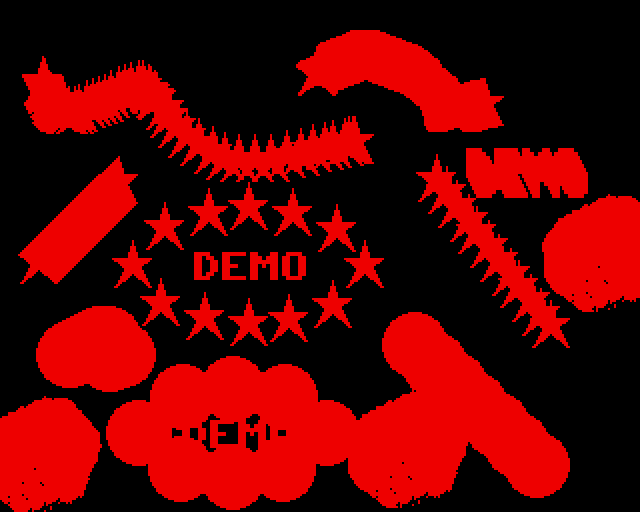
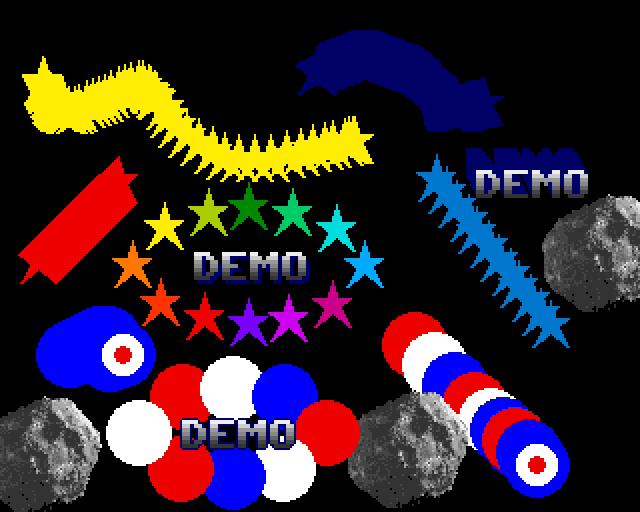
Issue #82 - Make better menus mode color-examples.png

diff --git a/docs/menus/src/mode.md b/docs/menus/src/mode.md
@@ -80,7 +80,7 @@ To understand the following modes, you need to consider the default 32 color
 palette. The default palette has two built-in __Cycle Ranges__: a grayscale
 range (1) and the famous rainbow range (2) you've seen in most DPaint demos.
 Please note that the rainbow range in the examples is expanded to encompass
-more colrs than the default range, and that no colors are shared between the
+more colors than the default range, and that no colors are shared between the
 two ranges. These ranges are used in all gradient fill options, Shade, Blend
 and Cycle Mode.
 
